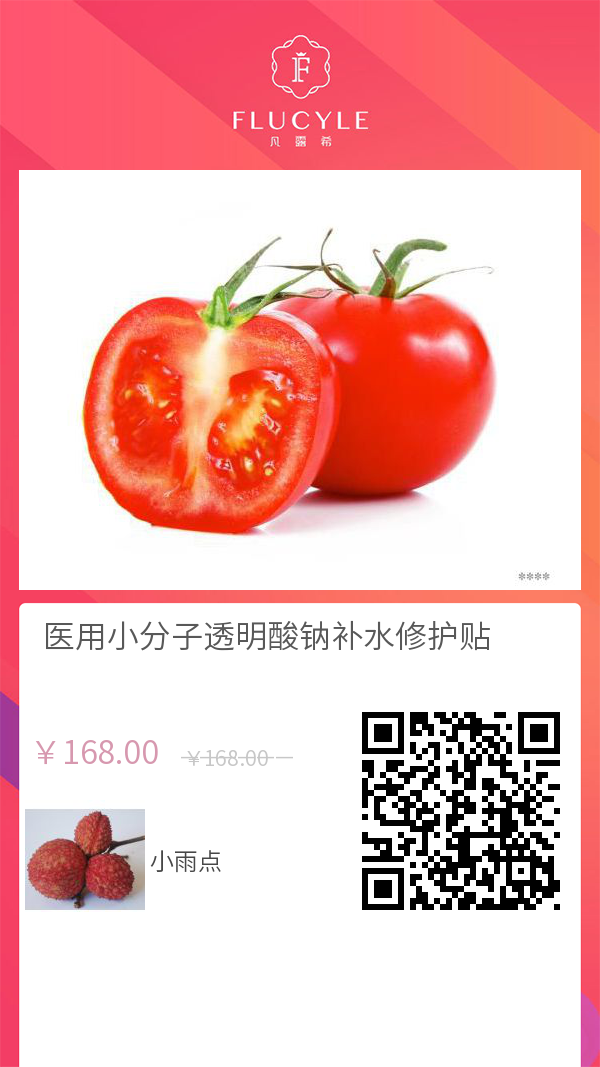
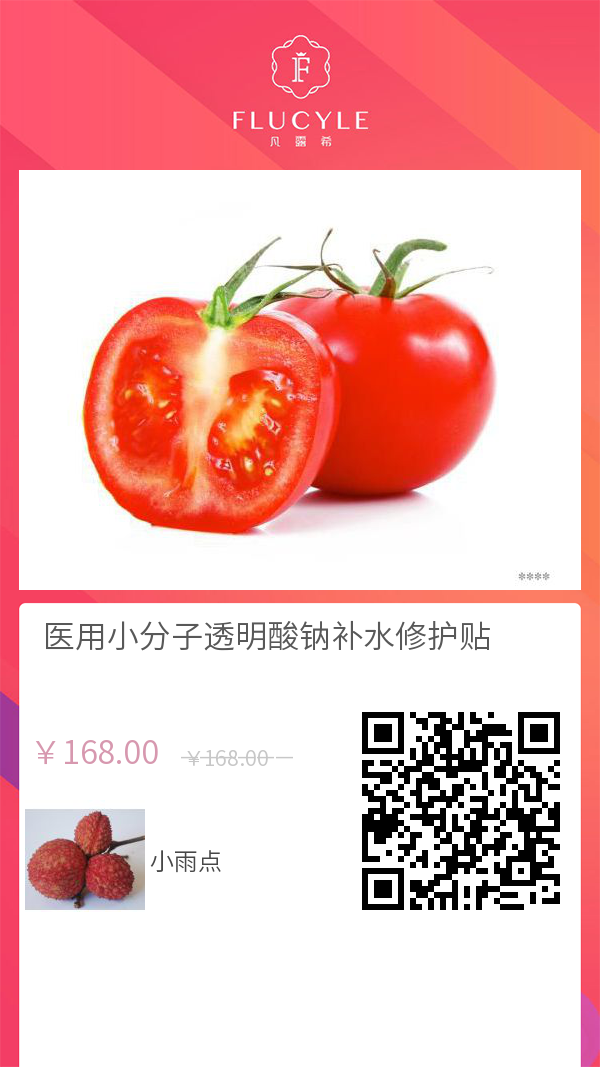
修改二维码尺寸

Changed region(s): [[0.6, 0.6495, 0.93, 0.866]]

diff --git a/application/common.php b/application/common.php
@@ -2559,7 +2559,12 @@ function goods_qrcode($url='',$goods_id='0')
     $filename = "public/qrcode/goods/goodsID_".$goods_id.'_'.$user_id.rand(1,9999).'.jpg';
     $outfile=ROOT_PATH.$filename;
     $level = 'L';
-    $size =6;
+    $tmp = explode('/',$url);
+    if(count($tmp) > 10){
+        $size =5.4;
+    }else{
+        $size =6;
+    }
     $QRcode = new \QRcode();
     ob_start();
     $res = $QRcode->png($data,$outfile,$level,$size,2);
